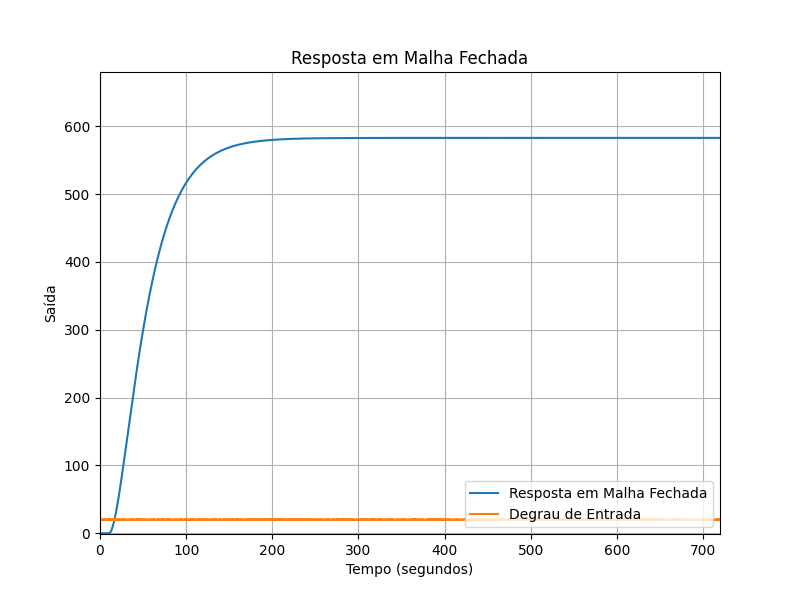
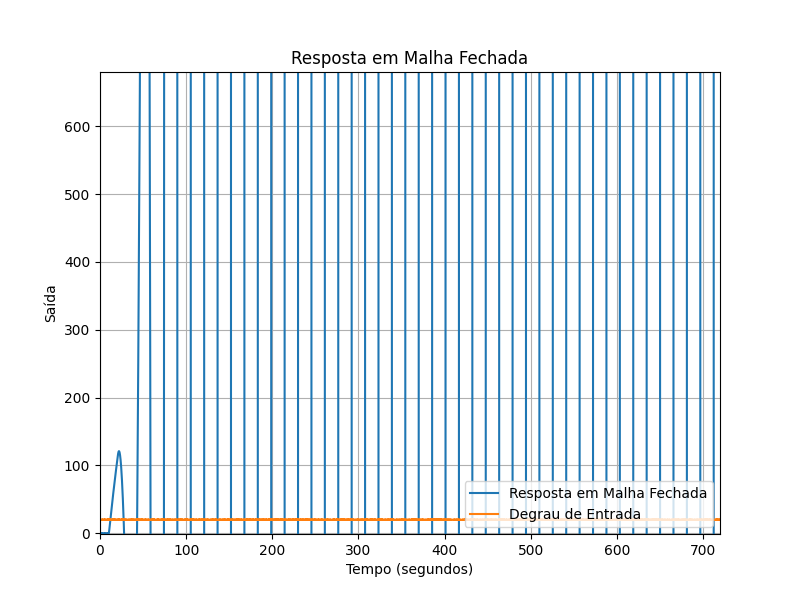
fix(project): Ajustments of interface
It was added some Ajustments
of the interface

Changed region(s): [[0.125, 0.12, 0.9062, 0.9]]

diff --git a/src/interface/layout/right_column.py b/src/interface/layout/right_column.py
@@ -31,17 +31,37 @@ def render_right_column(
 
     # Inputs for PID parameters
     st.write("Parâmetros do PID")
-    k = st.number_input("K", value=initial_k)
-    theta = st.number_input("Theta", value=initial_theta)
-    tau = st.number_input("Tau", value=initial_tau)
+
+    k_vazio = st.empty()
+    theta_vazio = st.empty()
+    tau_vazio = st.empty()
+
+    if option2 == "CHR":
+        # Update the PID parameters based on the input values
+        initial_k = 0.09
+        initial_theta = 5.17
+        initial_tau = 47.25
+
+    elif option2 == "ITAE":
+        # Update the PID parameters based on the input values
+        initial_k = 0.12
+        initial_theta = 3.55
+        initial_tau = 61.86
+
+    k = k_vazio.number_input("Kp", value=initial_k)
+    theta = theta_vazio.number_input("Td", value=initial_theta)
+    tau = tau_vazio.number_input("Ti", value=initial_tau)
 
     # Update the graph based on the selected option
     if option2 == "CHR":
+
         tempo_chr, saida_chr = CHR(k, tau, theta, amplitude_degrau, tempo)
         fig_right = plot_graph_pid(
             tempo_chr, saida_chr, tempo, option2, degrau, amplitude_degrau
         )
+
     elif option2 == "ITAE":
+
         tempo_itae, saida_itae = ITAE(k, tau, theta, amplitude_degrau, tempo)
         fig_right = plot_graph_pid(
             tempo_itae, saida_itae, tempo, option2, degrau, amplitude_degrau

diff --git a/src/interface/layout/left_column.py b/src/interface/layout/left_column.py
@@ -53,15 +53,21 @@ def render_left_column(tempo, degrau, saida_motor):
         )
 
     else:
-        # Create the transfer function for the closed loop
-        closed_loop = ctl.tf([K], [tau_estimado * theta_estimado, tau_estimado, 1])
 
         # Adding the delay
         num_delay, den_delay = ctl.pade(theta_estimado, 20)
-        closed_loop_with_theta = ctl.series(ctl.tf(num_delay, den_delay), closed_loop)
+        
+        # Create the transfer function for the open loop
+        open_loop = ctl.tf([K], [tau_estimado, 1])
+        open_loop_with_theta = ctl.series(ctl.tf(num_delay, den_delay), open_loop)
+
+        # Create the transfer function for the closed loop
+        closed_loop = ctl.feedback(open_loop_with_theta, 1)
+
+        # closed_loop_with_theta = ctl.series(ctl.tf(num_delay, den_delay), closed_loop)
 
         # Simulate the step response
-        tempo_closed, saida_closed = ctl.step_response(closed_loop_with_theta, tempo)
+        tempo_closed, saida_closed = ctl.step_response(closed_loop, tempo)
 
         # Create plot for the closed loop
         fig_left = plot_graph_closed_loop(

diff --git a/src/interface/models/pid_model.py b/src/interface/models/pid_model.py
@@ -1,5 +1,6 @@
 import control as ctl  # type: ignore
 
+
 def estimate_pid_values(tempo, degrau, saida_motor):
     """
     Estimate PID values based on the step response of the motor output.
@@ -37,6 +38,7 @@ def estimate_pid_values(tempo, degrau, saida_motor):
     theta_estimado = tempo_t2 - tau_estimado
 
     return K, tau_estimado, theta_estimado
+
 
 def CHR(k, tau, theta, amplitude_degrau, tempo):
     """
@@ -81,6 +83,7 @@ def CHR(k, tau, theta, amplitude_degrau, tempo):
     sobressinal_chr = informacoes_chr["Overshoot"]  # type: ignore  # noqa: F841
 
     return tempo_chr, saida_chr
+
 
 def ITAE(k, tau, theta, amplitude_degrau, tempo, tau_inicial=47.50):
     """

diff --git a/src/interface/main.py b/src/interface/main.py
@@ -9,7 +9,7 @@ def main():
     st.title("C213 - PROJETO DE SISTEMAS EMBARCADOS")
 
     # Default values for the right column graph
-    initial_k, initial_theta, initial_tau = 29.056, 10.10, 47.50
+    initial_k, initial_theta, initial_tau = 0.09, 5.17, 47.25
     arquivo_mat = r"dataset/Dataset_Grupo6.mat"  # Path to the .MAT dataset
 
     # Load data from the MAT file

diff --git a/src/interface/utils/plot_utils.py b/src/interface/utils/plot_utils.py
@@ -67,6 +67,7 @@ def plot_graph_closed_loop(tempo_fechada, saida_fechada, tempo, degrau, titulo):
     ax.plot(tempo, degrau, label="Degrau de Entrada")
     ax.set_xlabel('Tempo [s]')
     ax.set_ylabel('Amplitude')
+    ax.set_ylim(-1, 800)
     ax.set_title(titulo)
     ax.legend()
     
